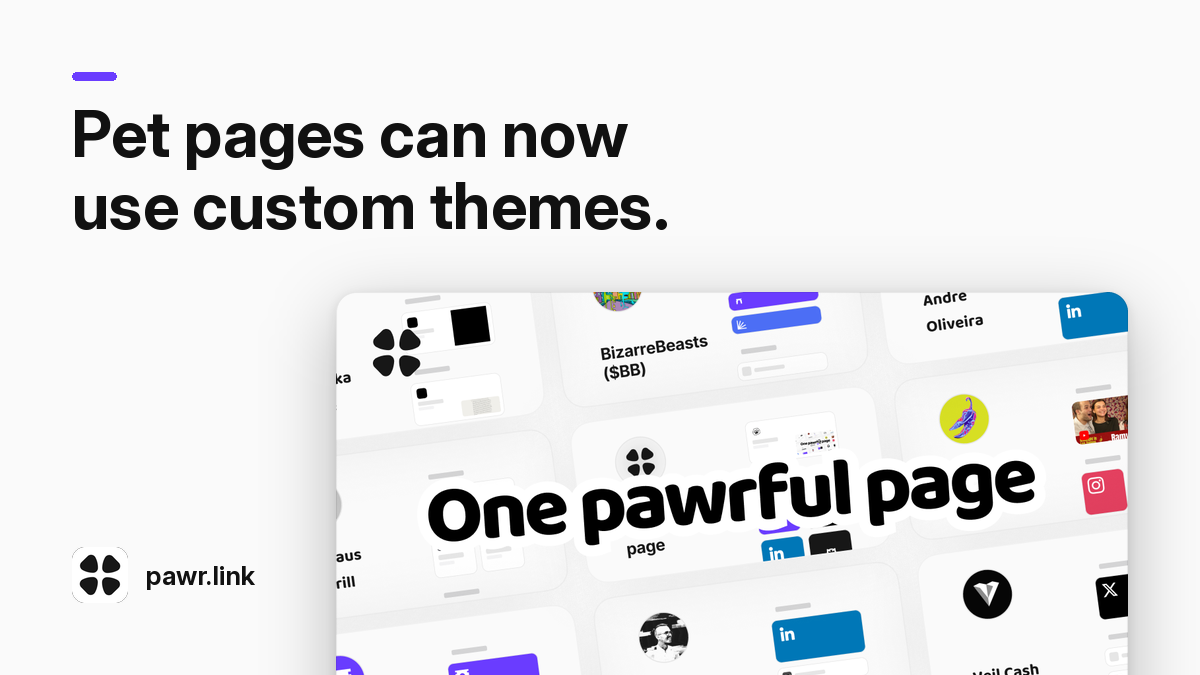
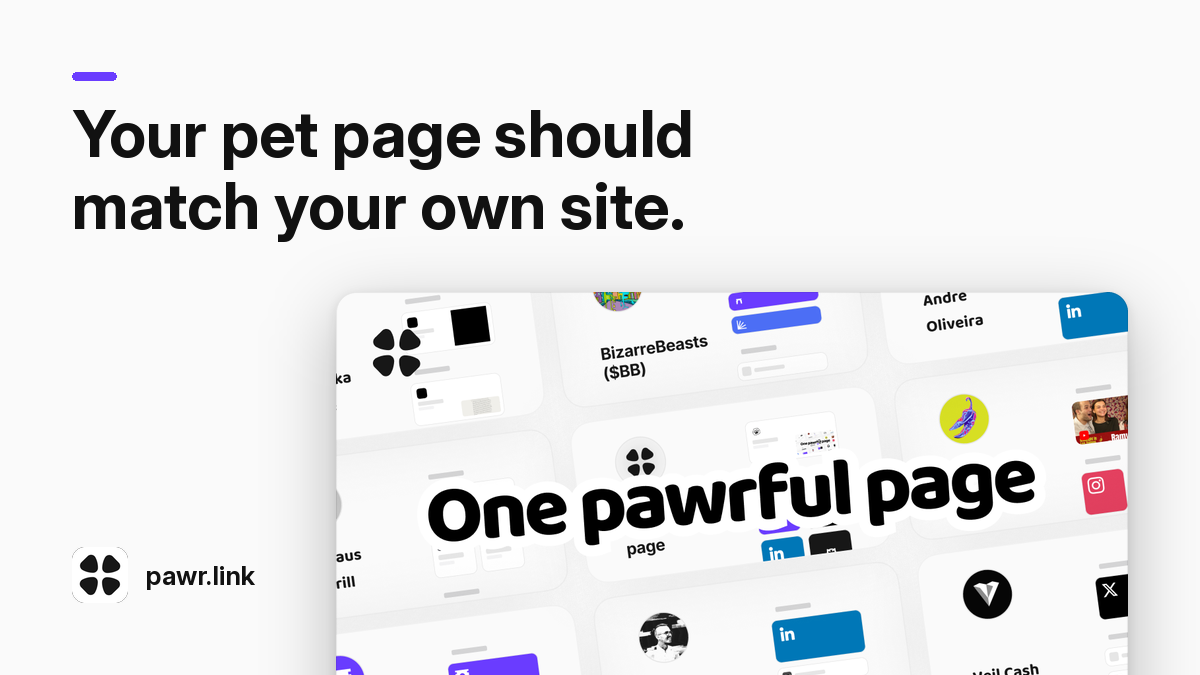
Catalog screenshots: hero, statement and split cards, fresh CLI capture
render_assets.py now draws the three layouts as the wizard picks them
(one screenshot, none, two) with the post from a live /launch run on
2026-11-06, and the feed preview from the hero card. cli-flow.png is
redrawn from that run's terminal capture, so the reference list shows the
shape notes and the reader-side hooks. The banner is drawn only with
--banner and is unchanged. posts-design-card.png is gone; nothing used it.

Changed region(s): [[0.0617, 0.1556, 0.5858, 0.3733]]

diff --git a/tools/render_assets.py b/tools/render_assets.py
@@ -1,14 +1,18 @@
-"""Render the catalog banner and screenshots in assets/ with the plugin's own code.
+"""Render the catalog screenshots (and, with --banner, the banner) in assets/ with the plugin's own code.
 
-Usage: python tools/render_assets.py INPUT_DIR [OUT_DIR]
+Usage: python tools/render_assets.py INPUT_DIR [OUT_DIR] [--banner]
 
 INPUT_DIR holds files fetched once by hand (not committed):
   pawr-og.png     pawr.link's og:image, used as the card's screenshot
+  pawr-page.png   a pawr.link profile page (a phone-shaped crop of pawr.link's own
+                  landing-screenshot-max.webp), the split card's second screenshot
   pawr-logo.png   the logo fetch_brand() saved for https://pawr.link
   posts-logo.png  the logo fetch_brand() saved for https://posts.design
   cli.ansi        `tmux capture-pane -p -e` of a live `hermes chat` run of /launch
-OUT_DIR defaults to the repo's assets/. Card and preview text come from live /launch runs
-on 2026-11-05; the brand colours are what fetch_brand() read from each site that day.
+OUT_DIR defaults to the repo's assets/. The three cards (hero, statement, split) and the feed
+preview carry the post from a live /launch run on 2026-11-06, the run cli.ansi captures. The
+banner keeps the card and post of the 2026-11-05 run. The brand colours are what fetch_brand()
+read from each site on 2026-11-05.
 """
 from __future__ import annotations
 
@@ -25,7 +29,7 @@ sys.path.insert(0, str(ROOT))
 
 from launch_desk.draft import facts_text, unsupported_details  # noqa: E402
 from launch_desk.models import BrandKit, Brief  # noqa: E402
-from launch_desk.render import FONT_PATH, load_font, render_card, render_feed_preview  # noqa: E402
+from launch_desk.render import FONT_PATH, choose_layout, load_font, render_card, render_feed_preview  # noqa: E402
 from launch_desk.rules import check, x_length  # noqa: E402
 from launch_desk.wizard import card_headline  # noqa: E402
 
@@ -36,6 +40,15 @@ INTER = str(FONT_PATH)
 
 PAWR_BRIEF = Brief("feature", "x", "custom themes for pet profile pages", "https://pawr.link",
                    detail="people kept asking to match their pet page to their own site")
+# The 2026-11-06 run (cli.ansi): the cards and the feed preview.
+RUN_HOOK = "Your pet page should match your own site."
+RUN_CAPTION = (
+    "Your pet page should match your own site.\n\n"
+    "Custom themes are live for pet profile pages on pawr.link.\n\n"
+    "One page for everything you are, do, and care about.\n\n"
+    "https://pawr.link"
+)
+# The 2026-11-05 run: the banner's card and its scroll test.
 PAWR_HOOK = "Check this out: pet pages can now use custom themes."
 PAWR_CAPTION = (
     "Check this out: pet pages can now use custom themes.\n\n"
@@ -43,7 +56,6 @@ PAWR_CAPTION = (
     "One change, but it means your pet's page can sit next to your work without looking out of place.\n\n"
     "https://pawr.link"
 )
-POSTS_HOOK = "Launch Desk turns 'I just shipped X' into a launch post."
 
 
 def pawr_kit(inp: Path) -> BrandKit:
@@ -134,13 +146,13 @@ def save(im: Image.Image, path: Path, colors: int | None = None) -> Path:
 
 # ------------------------------------------------------------------ scroll test (real values)
 
-def scroll_test(kit: BrandKit) -> list[str]:
+def scroll_test(kit: BrandKit, hook: str = PAWR_HOOK, caption: str = PAWR_CAPTION) -> list[str]:
     """The checks the plugin runs on the post, as banner rows. Fails loudly if the post fails."""
-    failures = check(PAWR_CAPTION, network="x") + unsupported_details(PAWR_CAPTION, facts_text(PAWR_BRIEF, kit))
+    failures = check(caption, network="x") + unsupported_details(caption, facts_text(PAWR_BRIEF, kit))
     assert not failures, [f.rule_id for f in failures]
-    words = len(PAWR_HOOK.split())
+    words = len(hook.split())
     return [f"First line: {words} words", "No stock launch phrases", "No details you didn’t give",
-            f"{x_length(PAWR_CAPTION)} of 280 characters"]
+            f"{x_length(caption)} of 280 characters"]
 
 
 # ------------------------------------------------------------------ feed preview frame
@@ -517,6 +529,8 @@ def terminal(ansi: Path, out: Path, start: str, end: str, size: int = 17) -> Pat
 # ------------------------------------------------------------------ main
 
 def main(argv: list[str]) -> int:
+    with_banner = "--banner" in argv
+    argv = [a for a in argv if a != "--banner"]
     if len(argv) < 2:
         print(__doc__)
         return 2
@@ -526,12 +540,19 @@ def main(argv: list[str]) -> int:
     shots.mkdir(parents=True, exist_ok=True)
     pawr, posts = pawr_kit(inp), posts_kit(inp)
 
-    card = render_card(pawr, inp / "pawr-og.png", card_headline(PAWR_HOOK, PAWR_BRIEF.what), X,
-                       shots / "card-x.png")
-    preview = render_feed_preview(pawr, PAWR_CAPTION, card, shots / "feed-preview.png", scale=2)
+    scroll_test(pawr, RUN_HOOK, RUN_CAPTION)  # the post on the cards passes the plugin's checks
+    headline = card_headline(RUN_HOOK, PAWR_BRIEF.what)
+    og, page = inp / "pawr-og.png", inp / "pawr-page.png"
+    # Each layout as the wizard picks it: one screenshot, none, two.
+    for name, used in (("card-x.png", [og]), ("card-statement.png", []), ("card-split.png", [og, page])):
+        layout = choose_layout(used, headline)
+        render_card(pawr, used, headline, X, shots / name, layout=layout)
+    preview = render_feed_preview(pawr, RUN_CAPTION, shots / "card-x.png", shots / "feed-preview.png", scale=2)
     frame_preview(preview)
-    render_card(posts, None, card_headline(POSTS_HOOK, "Launch Desk"), X, shots / "posts-design-card.png")
-    banner(card, pawr, posts, out / "banner.png")
+    if with_banner:
+        card = render_card(pawr, og, card_headline(PAWR_HOOK, PAWR_BRIEF.what), X, out / "_banner-card.png")
+        banner(card, pawr, posts, out / "banner.png")
+        card.unlink()
     if (inp / "cli.ansi").exists():
         terminal(inp / "cli.ansi", shots / "cli-flow.png", start="/launch https", end="to select")
     for p in sorted(out.rglob("*.png")):
